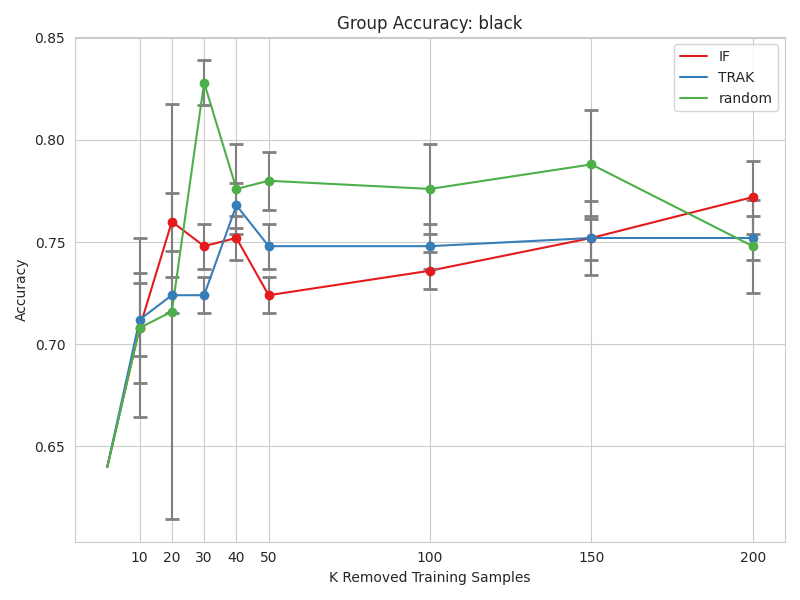
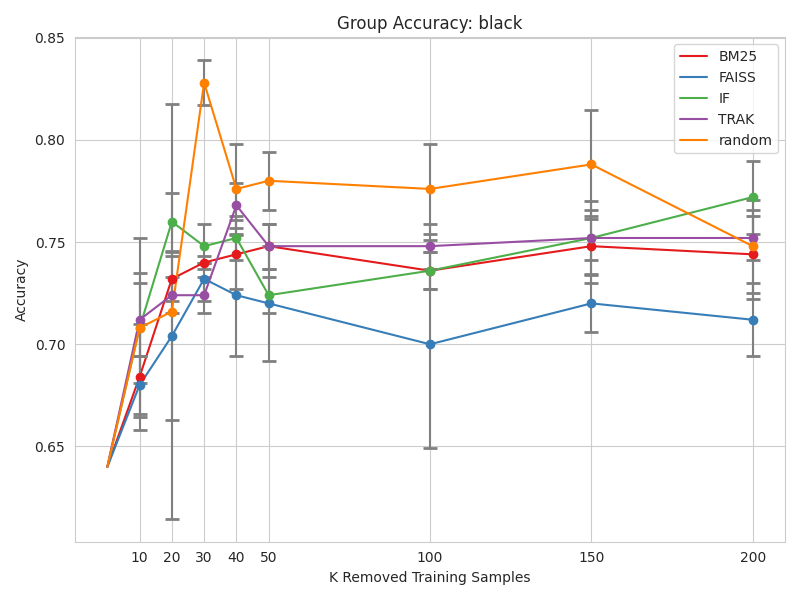
add bm25 and faiss to vis

diff --git a/exp/utils.py b/exp/utils.py
@@ -147,9 +147,12 @@ class FirstModuleBaseline():
         # Add the training embeddings to the index
         index.add(train_embeddings)
         # Compute similarities
-        scores, _ = index.search(test_embeddings, n_train)
-        
-        torch.save(scores, '../../output/FAISS_scores.pt')
+        D,I = index.search(test_embeddings, n_train)
+        reordered_D = np.zeros_like(D)
+        for row in range(I.shape[0]):
+            reordered_D[row, I[row]] = D[row]
+
+        torch.save(reordered_D, '../../output/FAISS_scores.pt')
 
     def get_gradient_scores(self,val_labels):
         
@@ -460,11 +463,15 @@ class D3M:
         n_groups = len(set(group_indices))
         S = np.array(scores)
         g = [
-            group_losses[i].cpu().numpy() * S[:, np.array(group_indices) == i].mean(axis=1)
+            group_losses[i].cpu().numpy() * np.nanmean(S[:, np.array(group_indices) == i],axis=1)
             for i in range(n_groups)
         ]
         g = np.stack(g)
-        group_alignment_scores = g.mean(axis=0)
+        
+        nan_perc = np.isnan(g).mean()
+        if nan_perc > 0.2:
+            raise ValueError(f"The percentage of NaNs in g is {nan_perc}.")
+        group_alignment_scores = np.nanmean(g,axis=0) # I changed here as some BM25 scores are too small
         return group_alignment_scores
 
     def get_debiased_train_indices(

diff --git a/exp/main.py b/exp/main.py
@@ -67,8 +67,8 @@ def main():
     model = AutoModelForSequenceClassification.from_pretrained(model_path,num_labels = 2).to(DEVICE)
     tokenizer = AutoTokenizer.from_pretrained(config.TOKENIZER_NAME, use_fast=True, trust_remote_code=True)
     
-    #first_module_baseline = utils.FirstModuleBaseline(train_text, test_text, model, tokenizer)
-    #first_module_baseline.get_Bm25_scores()
+    first_module_baseline = utils.FirstModuleBaseline(train_text, test_text, model, tokenizer)
+    first_module_baseline.get_Bm25_scores()
     #first_module_baseline.get_FAISS_scores()
 
     #first_module_tda = utils.FirstModuleTDA(train_dataset,test_dataset,model)
@@ -81,7 +81,7 @@ def main():
     ks = list(range(10,50,10)) + list(range(50,750,50))
 
 
-    for method in ["TRAK"]:#"BM25","FAISS","IF","TRAK"]:
+    for method in ["FAISS"]:#"BM25","FAISS","IF","TRAK"]:
 
         scores = torch.load(f"../../output/{method}_scores.pt")
         scores = scores.T
@@ -115,7 +115,7 @@ def main():
             os.mkdir(new_folder)
             
             debiased_train_idx = d3m.debias(num_to_discard=k)
-            print(len(debiased_train_idx))
+            print(debiased_train_idx[:10])
             finetune_model(train_dataset.select(debiased_train_idx), val_dataset,pretrained_model, tokenizer,new_folder)
             
             checkpoints = os.listdir(new_folder)

diff --git a/exp/vis_k_removed.py b/exp/vis_k_removed.py
@@ -27,7 +27,7 @@ test_dl = dp.get_dataloader(test_dataset, config.BATCH_SIZE)
 base_model_acc = utils.compute_accuracy(base_model,test_dl)
 
 colors = sns.color_palette("Set1", n_colors=5)
-methods = ["IF","TRAK","random"]#"BM25","FAISS","IF","TRAK","random"]
+methods = ["BM25","FAISS","IF","TRAK","random"]
 #ks = list(range(10,50,10)) + list(range(50,750,50))
 ks = [10,20,30,40,50,100,150,200]
 
